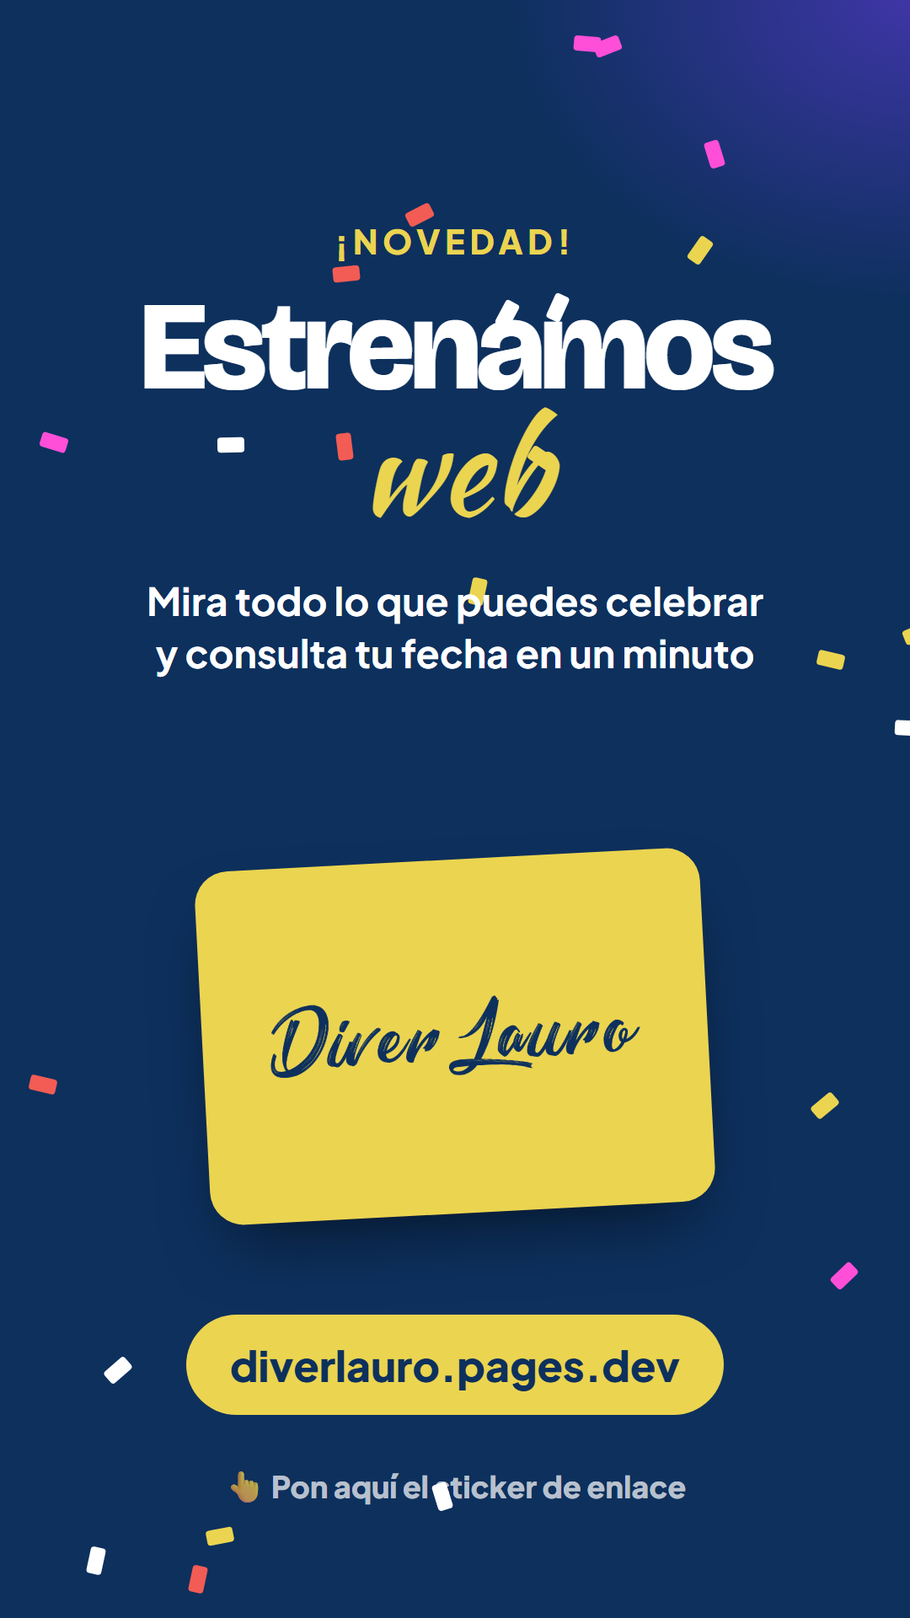
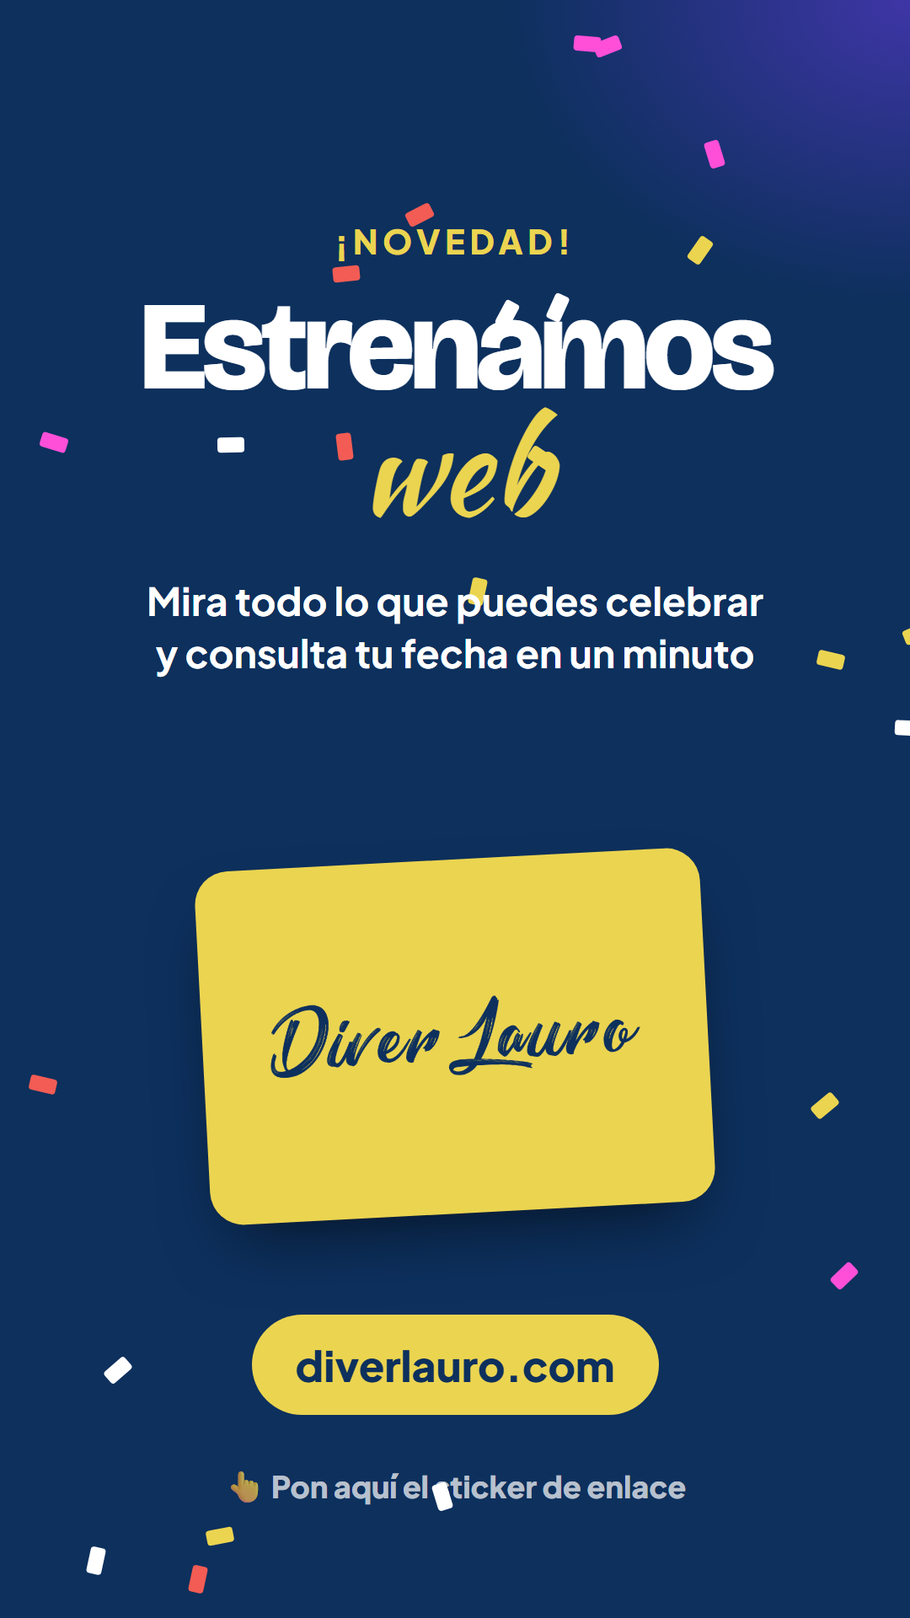
Dirección oficial: diverlauro.com
- canonical, Open Graph, datos estructurados, sitemap y robots apuntan a https://diverlauro.com
- kit de Instagram y guía actualizados con el nuevo dominio
- README: configuración de dominio y registros DNS del correo de IONOS

Changed region(s): [[0.1833, 0.8125, 0.7944, 0.875]]

diff --git a/despedidas-fiestas-noche-alhaurin-de-la-torre/index.html b/despedidas-fiestas-noche-alhaurin-de-la-torre/index.html
@@ -6,7 +6,7 @@
   <title>Local para despedidas y fiestas de noche en Alhaurín de la Torre | Diver Lauro</title>
   <meta name="description" content="¿Despedida de soltera o soltero, cumpleaños de adultos o fiesta privada? Diver Lauro abre también de noche en Alhaurín de la Torre: música, espacio para bailar y salón climatizado. Reserva por WhatsApp.">
   <meta name="robots" content="index, follow, max-image-preview:large">
-  <link rel="canonical" href="https://diverlauro.pages.dev/despedidas-fiestas-noche-alhaurin-de-la-torre/">
+  <link rel="canonical" href="https://diverlauro.com/despedidas-fiestas-noche-alhaurin-de-la-torre/">
   <meta name="theme-color" content="#EBD450">
   <meta name="geo.region" content="ES-MA">
   <meta name="geo.placename" content="Alhaurín de la Torre">
@@ -17,14 +17,14 @@
   <meta property="og:site_name" content="Diver Lauro">
   <meta property="og:title" content="Local para despedidas y fiestas de noche en Alhaurín de la Torre | Diver Lauro">
   <meta property="og:description" content="¿Despedida de soltera o soltero, cumpleaños de adultos o fiesta privada? Diver Lauro abre también de noche en Alhaurín de la Torre: música, espacio para bailar y salón climatizado. Reserva por WhatsApp.">
-  <meta property="og:url" content="https://diverlauro.pages.dev/despedidas-fiestas-noche-alhaurin-de-la-torre/">
-  <meta property="og:image" content="https://diverlauro.pages.dev/img/og-image.jpg">
+  <meta property="og:url" content="https://diverlauro.com/despedidas-fiestas-noche-alhaurin-de-la-torre/">
+  <meta property="og:image" content="https://diverlauro.com/img/og-image.jpg">
   <meta property="og:image:width" content="1200">
   <meta property="og:image:height" content="630">
   <meta name="twitter:card" content="summary_large_image">
   <meta name="twitter:title" content="Local para despedidas y fiestas de noche en Alhaurín de la Torre | Diver Lauro">
   <meta name="twitter:description" content="¿Despedida de soltera o soltero, cumpleaños de adultos o fiesta privada? Diver Lauro abre también de noche en Alhaurín de la Torre: música, espacio para bailar y salón climatizado. Reserva por WhatsApp.">
-  <meta name="twitter:image" content="https://diverlauro.pages.dev/img/og-image.jpg">
+  <meta name="twitter:image" content="https://diverlauro.com/img/og-image.jpg">
   <link rel="icon" href="/img/favicon-48.png" sizes="48x48" type="image/png">
   <link rel="icon" href="/img/favicon-32.png" sizes="32x32" type="image/png">
   <link rel="apple-touch-icon" href="/img/apple-touch-icon.png">
@@ -49,13 +49,13 @@
       "@type": "ListItem",
       "position": 1,
       "name": "Inicio",
-      "item": "https://diverlauro.pages.dev/"
+      "item": "https://diverlauro.com/"
     },
     {
       "@type": "ListItem",
       "position": 2,
       "name": "Despedidas y fiestas de noche",
-      "item": "https://diverlauro.pages.dev/despedidas-fiestas-noche-alhaurin-de-la-torre/"
+      "item": "https://diverlauro.com/despedidas-fiestas-noche-alhaurin-de-la-torre/"
     }
   ]
 }
@@ -69,7 +69,7 @@
   "description": "¿Despedida de soltera o soltero, cumpleaños de adultos o fiesta privada? Diver Lauro abre también de noche en Alhaurín de la Torre: música, espacio para bailar y salón climatizado. Reserva por WhatsApp.",
   "areaServed": "Alhaurín de la Torre, Málaga",
   "provider": {
-    "@id": "https://diverlauro.pages.dev/#negocio",
+    "@id": "https://diverlauro.com/#negocio",
     "@type": "LocalBusiness",
     "name": "Diver Lauro",
     "telephone": "+34647913022",
@@ -82,7 +82,7 @@
       "addressCountry": "ES"
     }
   },
-  "url": "https://diverlauro.pages.dev/despedidas-fiestas-noche-alhaurin-de-la-torre/"
+  "url": "https://diverlauro.com/despedidas-fiestas-noche-alhaurin-de-la-torre/"
 }
   </script>
   <script type="application/ld+json">

diff --git a/cumpleanos-infantiles-alhaurin-de-la-torre/index.html b/cumpleanos-infantiles-alhaurin-de-la-torre/index.html
@@ -6,7 +6,7 @@
   <title>Cumpleaños infantiles en Alhaurín de la Torre con parque de bolas | Diver Lauro</title>
   <meta name="description" content="Celebra el cumpleaños de tus hijos en Diver Lauro (Alhaurín de la Torre): parque de bolas con tobogán, rincón infantil, futbolín y salón climatizado para las familias. Reserva por WhatsApp.">
   <meta name="robots" content="index, follow, max-image-preview:large">
-  <link rel="canonical" href="https://diverlauro.pages.dev/cumpleanos-infantiles-alhaurin-de-la-torre/">
+  <link rel="canonical" href="https://diverlauro.com/cumpleanos-infantiles-alhaurin-de-la-torre/">
   <meta name="theme-color" content="#EBD450">
   <meta name="geo.region" content="ES-MA">
   <meta name="geo.placename" content="Alhaurín de la Torre">
@@ -17,14 +17,14 @@
   <meta property="og:site_name" content="Diver Lauro">
   <meta property="og:title" content="Cumpleaños infantiles en Alhaurín de la Torre con parque de bolas | Diver Lauro">
   <meta property="og:description" content="Celebra el cumpleaños de tus hijos en Diver Lauro (Alhaurín de la Torre): parque de bolas con tobogán, rincón infantil, futbolín y salón climatizado para las familias. Reserva por WhatsApp.">
-  <meta property="og:url" content="https://diverlauro.pages.dev/cumpleanos-infantiles-alhaurin-de-la-torre/">
-  <meta property="og:image" content="https://diverlauro.pages.dev/img/og-image.jpg">
+  <meta property="og:url" content="https://diverlauro.com/cumpleanos-infantiles-alhaurin-de-la-torre/">
+  <meta property="og:image" content="https://diverlauro.com/img/og-image.jpg">
   <meta property="og:image:width" content="1200">
   <meta property="og:image:height" content="630">
   <meta name="twitter:card" content="summary_large_image">
   <meta name="twitter:title" content="Cumpleaños infantiles en Alhaurín de la Torre con parque de bolas | Diver Lauro">
   <meta name="twitter:description" content="Celebra el cumpleaños de tus hijos en Diver Lauro (Alhaurín de la Torre): parque de bolas con tobogán, rincón infantil, futbolín y salón climatizado para las familias. Reserva por WhatsApp.">
-  <meta name="twitter:image" content="https://diverlauro.pages.dev/img/og-image.jpg">
+  <meta name="twitter:image" content="https://diverlauro.com/img/og-image.jpg">
   <link rel="icon" href="/img/favicon-48.png" sizes="48x48" type="image/png">
   <link rel="icon" href="/img/favicon-32.png" sizes="32x32" type="image/png">
   <link rel="apple-touch-icon" href="/img/apple-touch-icon.png">
@@ -49,13 +49,13 @@
       "@type": "ListItem",
       "position": 1,
       "name": "Inicio",
-      "item": "https://diverlauro.pages.dev/"
+      "item": "https://diverlauro.com/"
     },
     {
       "@type": "ListItem",
       "position": 2,
       "name": "Cumpleaños infantiles",
-      "item": "https://diverlauro.pages.dev/cumpleanos-infantiles-alhaurin-de-la-torre/"
+      "item": "https://diverlauro.com/cumpleanos-infantiles-alhaurin-de-la-torre/"
     }
   ]
 }
@@ -69,7 +69,7 @@
   "description": "Celebra el cumpleaños de tus hijos en Diver Lauro (Alhaurín de la Torre): parque de bolas con tobogán, rincón infantil, futbolín y salón climatizado para las familias. Reserva por WhatsApp.",
   "areaServed": "Alhaurín de la Torre, Málaga",
   "provider": {
-    "@id": "https://diverlauro.pages.dev/#negocio",
+    "@id": "https://diverlauro.com/#negocio",
     "@type": "LocalBusiness",
     "name": "Diver Lauro",
     "telephone": "+34647913022",
@@ -82,7 +82,7 @@
       "addressCountry": "ES"
     }
   },
-  "url": "https://diverlauro.pages.dev/cumpleanos-infantiles-alhaurin-de-la-torre/"
+  "url": "https://diverlauro.com/cumpleanos-infantiles-alhaurin-de-la-torre/"
 }
   </script>
   <script type="application/ld+json">

diff --git a/comuniones-bautizos-alhaurin-de-la-torre/index.html b/comuniones-bautizos-alhaurin-de-la-torre/index.html
@@ -6,7 +6,7 @@
   <title>Salón para comuniones y bautizos en Alhaurín de la Torre | Diver Lauro</title>
   <meta name="description" content="Salón para comuniones, bautizos y celebraciones familiares en Alhaurín de la Torre (Málaga). Mesas para toda la familia, zona de juegos para los niños, sonido y climatización. Reserva por WhatsApp.">
   <meta name="robots" content="index, follow, max-image-preview:large">
-  <link rel="canonical" href="https://diverlauro.pages.dev/comuniones-bautizos-alhaurin-de-la-torre/">
+  <link rel="canonical" href="https://diverlauro.com/comuniones-bautizos-alhaurin-de-la-torre/">
   <meta name="theme-color" content="#EBD450">
   <meta name="geo.region" content="ES-MA">
   <meta name="geo.placename" content="Alhaurín de la Torre">
@@ -17,14 +17,14 @@
   <meta property="og:site_name" content="Diver Lauro">
   <meta property="og:title" content="Salón para comuniones y bautizos en Alhaurín de la Torre | Diver Lauro">
   <meta property="og:description" content="Salón para comuniones, bautizos y celebraciones familiares en Alhaurín de la Torre (Málaga). Mesas para toda la familia, zona de juegos para los niños, sonido y climatización. Reserva por WhatsApp.">
-  <meta property="og:url" content="https://diverlauro.pages.dev/comuniones-bautizos-alhaurin-de-la-torre/">
-  <meta property="og:image" content="https://diverlauro.pages.dev/img/og-image.jpg">
+  <meta property="og:url" content="https://diverlauro.com/comuniones-bautizos-alhaurin-de-la-torre/">
+  <meta property="og:image" content="https://diverlauro.com/img/og-image.jpg">
   <meta property="og:image:width" content="1200">
   <meta property="og:image:height" content="630">
   <meta name="twitter:card" content="summary_large_image">
   <meta name="twitter:title" content="Salón para comuniones y bautizos en Alhaurín de la Torre | Diver Lauro">
   <meta name="twitter:description" content="Salón para comuniones, bautizos y celebraciones familiares en Alhaurín de la Torre (Málaga). Mesas para toda la familia, zona de juegos para los niños, sonido y climatización. Reserva por WhatsApp.">
-  <meta name="twitter:image" content="https://diverlauro.pages.dev/img/og-image.jpg">
+  <meta name="twitter:image" content="https://diverlauro.com/img/og-image.jpg">
   <link rel="icon" href="/img/favicon-48.png" sizes="48x48" type="image/png">
   <link rel="icon" href="/img/favicon-32.png" sizes="32x32" type="image/png">
   <link rel="apple-touch-icon" href="/img/apple-touch-icon.png">
@@ -49,13 +49,13 @@
       "@type": "ListItem",
       "position": 1,
       "name": "Inicio",
-      "item": "https://diverlauro.pages.dev/"
+      "item": "https://diverlauro.com/"
     },
     {
       "@type": "ListItem",
       "position": 2,
       "name": "Comuniones y bautizos",
-      "item": "https://diverlauro.pages.dev/comuniones-bautizos-alhaurin-de-la-torre/"
+      "item": "https://diverlauro.com/comuniones-bautizos-alhaurin-de-la-torre/"
     }
   ]
 }
@@ -69,7 +69,7 @@
   "description": "Salón para comuniones, bautizos y celebraciones familiares en Alhaurín de la Torre (Málaga). Mesas para toda la familia, zona de juegos para los niños, sonido y climatización. Reserva por WhatsApp.",
   "areaServed": "Alhaurín de la Torre, Málaga",
   "provider": {
-    "@id": "https://diverlauro.pages.dev/#negocio",
+    "@id": "https://diverlauro.com/#negocio",
     "@type": "LocalBusiness",
     "name": "Diver Lauro",
     "telephone": "+34647913022",
@@ -82,7 +82,7 @@
       "addressCountry": "ES"
     }
   },
-  "url": "https://diverlauro.pages.dev/comuniones-bautizos-alhaurin-de-la-torre/"
+  "url": "https://diverlauro.com/comuniones-bautizos-alhaurin-de-la-torre/"
 }
   </script>
   <script type="application/ld+json">

diff --git a/comidas-empresa-eventos-alhaurin-de-la-torre/index.html b/comidas-empresa-eventos-alhaurin-de-la-torre/index.html
@@ -6,7 +6,7 @@
   <title>Salón para comidas de empresa y eventos en Alhaurín de la Torre | Diver Lauro</title>
   <meta name="description" content="Comidas y cenas de empresa, cenas de Navidad, peñas, asociaciones y reuniones en Alhaurín de la Torre (Málaga). Salón amplio y climatizado con sonido y TV, de día o de noche.">
   <meta name="robots" content="index, follow, max-image-preview:large">
-  <link rel="canonical" href="https://diverlauro.pages.dev/comidas-empresa-eventos-alhaurin-de-la-torre/">
+  <link rel="canonical" href="https://diverlauro.com/comidas-empresa-eventos-alhaurin-de-la-torre/">
   <meta name="theme-color" content="#EBD450">
   <meta name="geo.region" content="ES-MA">
   <meta name="geo.placename" content="Alhaurín de la Torre">
@@ -17,14 +17,14 @@
   <meta property="og:site_name" content="Diver Lauro">
   <meta property="og:title" content="Salón para comidas de empresa y eventos en Alhaurín de la Torre | Diver Lauro">
   <meta property="og:description" content="Comidas y cenas de empresa, cenas de Navidad, peñas, asociaciones y reuniones en Alhaurín de la Torre (Málaga). Salón amplio y climatizado con sonido y TV, de día o de noche.">
-  <meta property="og:url" content="https://diverlauro.pages.dev/comidas-empresa-eventos-alhaurin-de-la-torre/">
-  <meta property="og:image" content="https://diverlauro.pages.dev/img/og-image.jpg">
+  <meta property="og:url" content="https://diverlauro.com/comidas-empresa-eventos-alhaurin-de-la-torre/">
+  <meta property="og:image" content="https://diverlauro.com/img/og-image.jpg">
   <meta property="og:image:width" content="1200">
   <meta property="og:image:height" content="630">
   <meta name="twitter:card" content="summary_large_image">
   <meta name="twitter:title" content="Salón para comidas de empresa y eventos en Alhaurín de la Torre | Diver Lauro">
   <meta name="twitter:description" content="Comidas y cenas de empresa, cenas de Navidad, peñas, asociaciones y reuniones en Alhaurín de la Torre (Málaga). Salón amplio y climatizado con sonido y TV, de día o de noche.">
-  <meta name="twitter:image" content="https://diverlauro.pages.dev/img/og-image.jpg">
+  <meta name="twitter:image" content="https://diverlauro.com/img/og-image.jpg">
   <link rel="icon" href="/img/favicon-48.png" sizes="48x48" type="image/png">
   <link rel="icon" href="/img/favicon-32.png" sizes="32x32" type="image/png">
   <link rel="apple-touch-icon" href="/img/apple-touch-icon.png">
@@ -49,13 +49,13 @@
       "@type": "ListItem",
       "position": 1,
       "name": "Inicio",
-      "item": "https://diverlauro.pages.dev/"
+      "item": "https://diverlauro.com/"
     },
     {
       "@type": "ListItem",
       "position": 2,
       "name": "Empresas, peñas y eventos",
-      "item": "https://diverlauro.pages.dev/comidas-empresa-eventos-alhaurin-de-la-torre/"
+      "item": "https://diverlauro.com/comidas-empresa-eventos-alhaurin-de-la-torre/"
     }
   ]
 }
@@ -69,7 +69,7 @@
   "description": "Comidas y cenas de empresa, cenas de Navidad, peñas, asociaciones y reuniones en Alhaurín de la Torre (Málaga). Salón amplio y climatizado con sonido y TV, de día o de noche.",
   "areaServed": "Alhaurín de la Torre, Málaga",
   "provider": {
-    "@id": "https://diverlauro.pages.dev/#negocio",
+    "@id": "https://diverlauro.com/#negocio",
     "@type": "LocalBusiness",
     "name": "Diver Lauro",
     "telephone": "+34647913022",
@@ -82,7 +82,7 @@
       "addressCountry": "ES"
     }
   },
-  "url": "https://diverlauro.pages.dev/comidas-empresa-eventos-alhaurin-de-la-torre/"
+  "url": "https://diverlauro.com/comidas-empresa-eventos-alhaurin-de-la-torre/"
 }
   </script>
   <script type="application/ld+json">

diff --git a/index.html b/index.html
@@ -6,7 +6,7 @@
   <title>Diver Lauro · Salón de celebraciones en Alhaurín de la Torre (Málaga)</title>
   <meta name="description" content="Diver Lauro, salón de celebraciones en Alhaurín de la Torre (Málaga). Cumpleaños, comuniones, bautizos, bodas, despedidas y comidas de empresa, de día y de noche. Parque de bolas, sonido y salón climatizado. Reserva: 647 91 30 22.">
   <meta name="robots" content="index, follow, max-image-preview:large">
-  <link rel="canonical" href="https://diverlauro.pages.dev/">
+  <link rel="canonical" href="https://diverlauro.com/">
   <meta name="theme-color" content="#EBD450">
   <meta name="geo.region" content="ES-MA">
   <meta name="geo.placename" content="Alhaurín de la Torre">
@@ -17,14 +17,14 @@
   <meta property="og:site_name" content="Diver Lauro">
   <meta property="og:title" content="Diver Lauro · Salón de celebraciones en Alhaurín de la Torre (Málaga)">
   <meta property="og:description" content="Diver Lauro, salón de celebraciones en Alhaurín de la Torre (Málaga). Cumpleaños, comuniones, bautizos, bodas, despedidas y comidas de empresa, de día y de noche. Parque de bolas, sonido y salón climatizado. Reserva: 647 91 30 22.">
-  <meta property="og:url" content="https://diverlauro.pages.dev/">
-  <meta property="og:image" content="https://diverlauro.pages.dev/img/og-image.jpg">
+  <meta property="og:url" content="https://diverlauro.com/">
+  <meta property="og:image" content="https://diverlauro.com/img/og-image.jpg">
   <meta property="og:image:width" content="1200">
   <meta property="og:image:height" content="630">
   <meta name="twitter:card" content="summary_large_image">
   <meta name="twitter:title" content="Diver Lauro · Salón de celebraciones en Alhaurín de la Torre (Málaga)">
   <meta name="twitter:description" content="Diver Lauro, salón de celebraciones en Alhaurín de la Torre (Málaga). Cumpleaños, comuniones, bautizos, bodas, despedidas y comidas de empresa, de día y de noche. Parque de bolas, sonido y salón climatizado. Reserva: 647 91 30 22.">
-  <meta name="twitter:image" content="https://diverlauro.pages.dev/img/og-image.jpg">
+  <meta name="twitter:image" content="https://diverlauro.com/img/og-image.jpg">
   <link rel="icon" href="/img/favicon-48.png" sizes="48x48" type="image/png">
   <link rel="icon" href="/img/favicon-32.png" sizes="32x32" type="image/png">
   <link rel="apple-touch-icon" href="/img/apple-touch-icon.png">
@@ -47,16 +47,16 @@
     "LocalBusiness",
     "EventVenue"
   ],
-  "@id": "https://diverlauro.pages.dev/#negocio",
+  "@id": "https://diverlauro.com/#negocio",
   "name": "Diver Lauro",
   "alternateName": "Diver Lauro Salón de Celebraciones",
   "description": "Salón de celebraciones en Alhaurín de la Torre (Málaga) para cumpleaños, comuniones, bautizos, bodas, despedidas de soltero/a, comidas de empresa y eventos privados, de día y de noche. Con parque de bolas, equipo de sonido y salón climatizado.",
-  "url": "https://diverlauro.pages.dev/",
-  "logo": "https://diverlauro.pages.dev/img/logo.png",
+  "url": "https://diverlauro.com/",
+  "logo": "https://diverlauro.com/img/logo.png",
   "image": [
-    "https://diverlauro.pages.dev/img/og-image.jpg",
-    "https://diverlauro.pages.dev/img/fotos/parque-bolas.webp",
-    "https://diverlauro.pages.dev/img/fotos/fachada.webp"
+    "https://diverlauro.com/img/og-image.jpg",
+    "https://diverlauro.com/img/fotos/parque-bolas.webp",
+    "https://diverlauro.com/img/fotos/fachada.webp"
   ],
   "telephone": "+34647913022",
   "priceRange": "€€",

diff --git a/redes-sociales/plantillas/historias__historia-3-web.html b/redes-sociales/plantillas/historias__historia-3-web.html
@@ -28,5 +28,5 @@ h1, h2 { font-family: "Bricolage Grotesque", sans-serif; font-weight: 800; lette
 <div style="position:absolute;left:50%;top:1020px;margin-left:-300px;width:600px;height:420px;border-radius:40px;background:#EBD450;box-shadow:0 40px 80px -30px rgba(0,0,0,.6);display:grid;place-items:center;transform:rotate(-3deg)">
   <img src="../../img/logo.png" style="width:440px">
 </div>
-<div style="position:absolute;left:0;right:0;top:1560px;text-align:center"><span class="pill" style="background:#EBD450;color:#0D305D;font-size:50px;padding:28px 52px">diverlauro.pages.dev</span>
+<div style="position:absolute;left:0;right:0;top:1560px;text-align:center"><span class="pill" style="background:#EBD450;color:#0D305D;font-size:50px;padding:28px 52px">diverlauro.com</span>
 <p style="font-size:36px;font-weight:800;margin:60px 0 0;color:#fff;opacity:.7">👆 Pon aquí el sticker de enlace</p></div></body></html>

diff --git a/tools/redes.py b/tools/redes.py
@@ -18,7 +18,7 @@ CHROME_CANDIDATES = [
     "google-chrome", "chromium",
 ]
 PHONE = "647 91 30 22"
-WEB = "diverlauro.pages.dev"
+WEB = "diverlauro.com"
 
 ICONS = {
     "cake": '<path d="M20 21v-8a2 2 0 0 0-2-2H6a2 2 0 0 0-2 2v8"/><path d="M4 16s.5-1 2-1 2.5 2 4 2 2.5-2 4-2 2.5 2 4 2 2-1 2-1"/><path d="M2 21h20M7 8v3m5-3v3m5-3v3M7 4h.01M12 4h.01M17 4h.01"/>',

diff --git a/tools/build.py b/tools/build.py
@@ -7,7 +7,7 @@ import json
 from pathlib import Path
 
 ROOT = Path(__file__).resolve().parent.parent
-SITE = "https://diverlauro.pages.dev"  # cámbialo cuando tengáis dominio propio (sin barra final)
+SITE = "https://diverlauro.com"  # dirección oficial (sin barra final)
 PHONE = "647 91 30 22"
 PHONE_INTL = "+34647913022"
 WA = "34647913022"

diff --git a/README.md b/README.md
@@ -2,7 +2,7 @@
 
 Web del salón de celebraciones **Diver Lauro** (Calle Crianza 30, Alhaurín de la Torre, Málaga): cumpleaños, comuniones, bautizos, bodas, despedidas, comidas de empresa y eventos, de día y de noche.
 
-Publicada en **https://diverlauro.pages.dev/** (Cloudflare Pages: cada `git push` a `main` se publica solo).
+Publicada en **https://diverlauro.com/** (Cloudflare Pages: cada `git push` a `main` se publica solo; también responde en `diverlauro.pages.dev`).
 
 ## Qué incluye
 
@@ -61,13 +61,13 @@ const REVIEWS = [
 
 Ahora mismo la web solo usa fotos actuales del local: parque de bolas, rincón infantil, office y fachada. Cuando haya fotos nuevas, se guardan en `img/fotos/` en dos tamaños (`nombre.webp` de ~1600 px y `nombre-sm.webp` de ~800 px), sin datos GPS, y se añaden en `tools/build.py`.
 
-## Dominio propio
+## Dominio y correo
 
-No es obligatorio para salir en Google, pero sí recomendable: un `diverlauro.es` da más confianza, se recuerda mejor y conviene tenerlo **antes** de que Google indexe mucho la dirección `pages.dev` (cambiar de dirección después hace perder algo de posicionamiento durante unas semanas).
-
-1. Comprar el dominio (DonDominio, Dinahosting…, ~10 €/año) y apuntar sus *nameservers* a Cloudflare.
-2. Cloudflare → Workers & Pages → diverlauro → **Custom domains** → `diverlauro.es` y `www.diverlauro.es`.
-3. Cambiar `SITE` en `tools/build.py`, ejecutar `python tools/build.py` y subir los cambios.
+- Dominio **`diverlauro.com`** comprado en IONOS, con el DNS gestionado en **Cloudflare** (nameservers `coraline` y `guy.ns.cloudflare.com`).
+- La web está conectada en Cloudflare → Workers & Pages → diverlauro → **Custom domains** (`diverlauro.com` y `www.diverlauro.com`).
+- El correo `info@diverlauro.com` es de **IONOS**. En el DNS de Cloudflare **no hay que borrar** estos registros (todos en *DNS only*):
+  `MX mx00.ionos.es` y `mx01.ionos.es`, `TXT v=spf1 include:_spf-eu.ionos.com ~all`, `CNAME s1-ionos._domainkey → s1.dkim.ionos.com`, `CNAME s2-ionos._domainkey → s2.dkim.ionos.com`, `CNAME autodiscover → adsredir.ionos.info`, `CNAME _dmarc → dmarc.ionos.es`.
+- Si algún día cambia la dirección, edita `SITE` en `tools/build.py`, ejecuta `python tools/build.py` y sube los cambios.
 
 ## Para salir los primeros en Google
 
@@ -75,7 +75,7 @@ Para búsquedas locales ("salón de celebraciones Alhaurín de la Torre", "cumpl
 
 1. **Ficha de Google (business.google.com)**:
    - Categoría principal **Salón de eventos** / *Salón de celebraciones*; secundarias: *Parque infantil cubierto*, *Organizador de fiestas infantiles*, *Lugar para fiestas*.
-   - **Sitio web**: `https://diverlauro.pages.dev/` · **Teléfono**: 647 91 30 22 · **Horario** real (día y noche).
+   - **Sitio web**: `https://diverlauro.com/` · **Teléfono**: 647 91 30 22 · **Horario** real (día y noche).
    - **Descripción** con las palabras clave: salón de celebraciones en Alhaurín de la Torre, cumpleaños, comuniones, despedidas, comidas de empresa, parque de bolas.
    - **Fotos nuevas** cada semana (Google premia las fichas activas) y **publicaciones** (novedades, fechas libres).
    - **Servicios**: añadir cumpleaños infantiles, comuniones y bautizos, despedidas, comidas de empresa.

diff --git a/redes-sociales/LEEME.md b/redes-sociales/LEEME.md
@@ -21,7 +21,7 @@ Diver Lauro · Salón de celebraciones
 📲 Reservas 647 91 30 22
 ```
 
-**Enlace:** `https://diverlauro.pages.dev/`
+**Enlace:** `https://diverlauro.com/`
 
 **Botones de contacto:** activa *WhatsApp* (647 91 30 22), *Llamar* y la *dirección* (Calle Crianza, 30, Alhaurín de la Torre).
 
